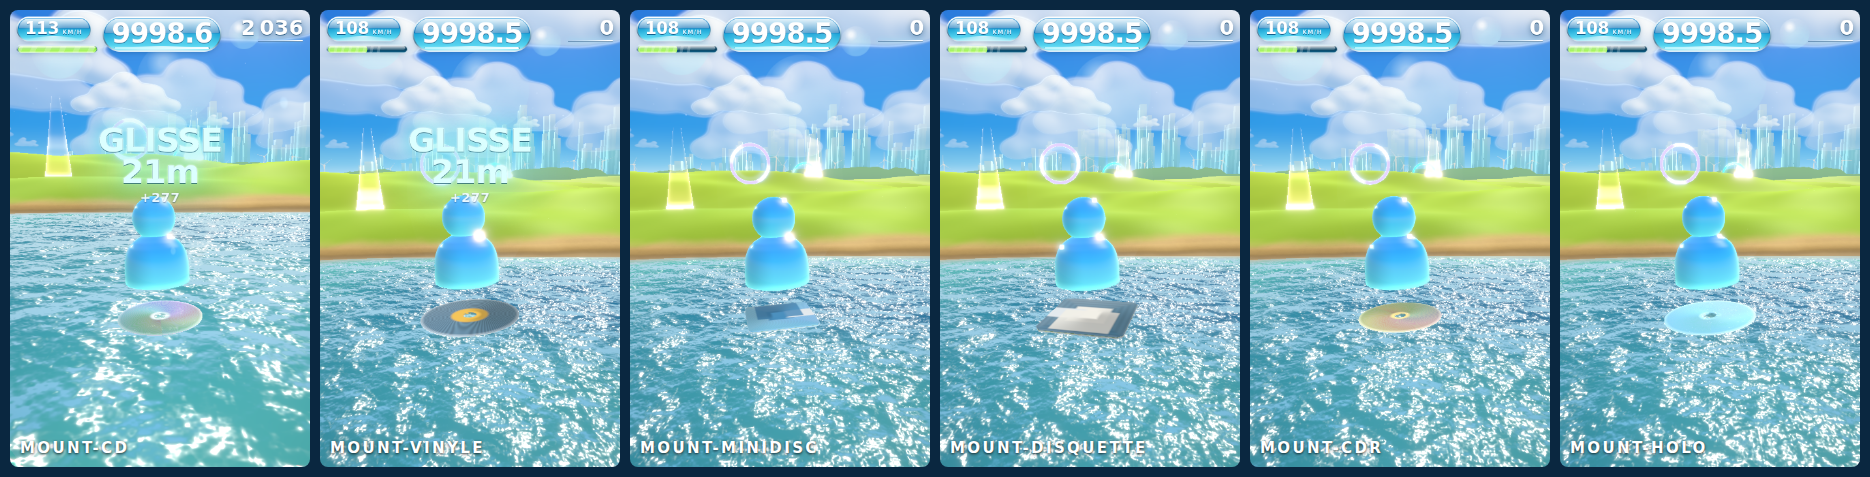
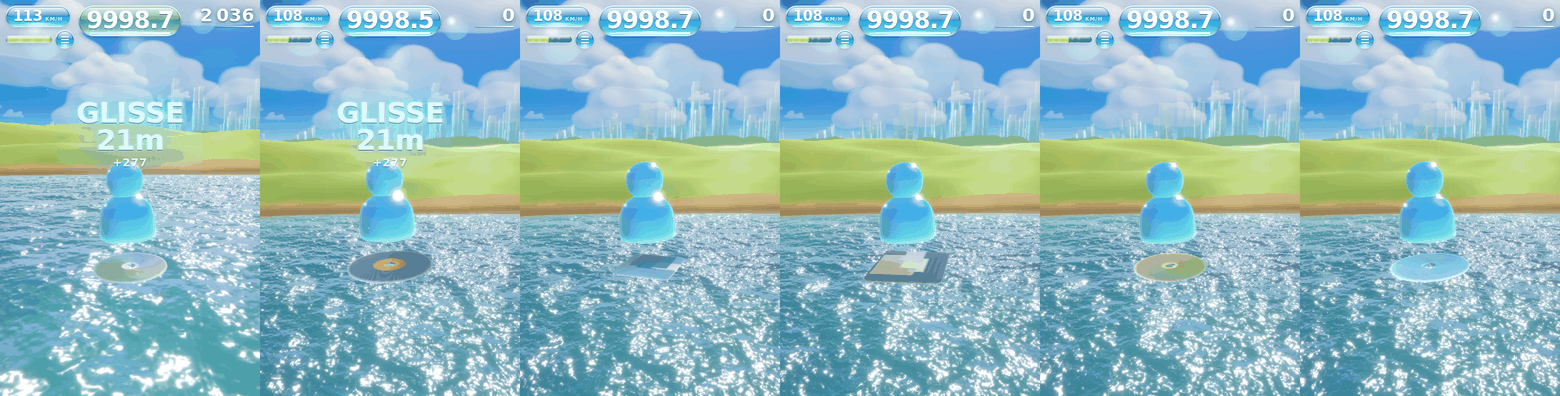
L aura ne mange plus la monture, le flou ne dessine plus d ovale, et OR arrive
Trois defauts signales par le joueur, dont deux etaient le meme genre de
faute : un terme qui couvre l ecran sans qu on ait regarde ou il s arrete.

L OVALE. L exemption de flou autour du surfeur valait smoothstep(0,06 ; 0,33)
sur une distance calculee en UV. Sur le papier c est doux ; a l ecran ca donne
un disque net entoure d une zone floue, et l oeil lit une isoligne bien avant
de lire un flou — ovale et non rond parce qu un cercle en UV est une ellipse
sur un cadre en portrait. La rampe couvre maintenant presque tout le cadre.
Le meme A/B a montre un second degat : a 3 % du cadre, la borne laissait le sol
proche partir en nappe lisse des cent kilometres/heure, avec six echantillons
pour couvrir vingt pixels. Elle tombe a 1,3 %, et la dose avec elle.

LES MONTURES QUI DISPARAISSENT. Ce n etait pas un probleme de monture : au
boost, l aura les effacait. Trois causes empilees. Son origine est posee quinze
centimetres sous le disque mais la coupe du pied de flamme ne mordait que sur
les treize premiers ; le profil de l enveloppe avait un plancher de 42 %, donc
meme a sa base elle faisait le rayon du disque et le bordait de tous les cotes
en additif et en blanc ; et le panache etant couche de quarante degres, une
bonne moitie de ses langues passe DEVANT le disque. Les deux premieres se
corrigent par la forme — la coupe couvre tout le plan du disque, le plancher
laisse place a une rampe en puissance 1,6 qui fait de la base une tige. La
[…]

diff --git a/src/fx/Aura.ts b/src/fx/Aura.ts
@@ -88,9 +88,9 @@ function buildGeometry(): BufferGeometry {
     return pos.length / 3 - 1;
   };
 
-  // --- L'enveloppe. Profil en GOUTTE INVERSEE : large juste au-dessus du
-  //     disque, resserree a la taille, puis effilee vers le haut. Un simple
-  //     cone donnerait un chapeau, une sphere donnerait une bulle.
+  // --- L'enveloppe. Profil en GOUTTE INVERSEE : etroite au ras du disque,
+  //     large a la taille, puis effilee vers le haut. Un simple cone donnerait
+  //     un chapeau, une sphere donnerait une bulle.
   const HEIGHT = 3.0;
   const rows: number[][] = [];
   for (let i = 0; i < RINGS; i++) {
@@ -104,7 +104,18 @@ function buildGeometry(): BufferGeometry {
     // propre aura, et il n'en depassait qu'un lisere qu'on prenait pour du
     // bloom. Une aura doit envelopper LARGEMENT ce qu'elle entoure, sinon elle
     // n'existe que pour le tampon de profondeur.
-    const r = 1.42 * Math.pow(Math.max(0, 1 - v), 0.85) * (0.42 + 0.58 * Math.sin(Math.min(1, v / 0.22) * Math.PI * 0.5));
+    // LE PLANCHER A DISPARU, ET C'EST LUI LE COUPABLE.
+    //
+    // Le profil valait « 0,42 + 0,58 x rampe » : meme a v = 0, l'enveloppe
+    // faisait deja 42 % de sa largeur maximale, c'est-a-dire tout juste le
+    // rayon du disque. Elle passait donc DEVANT lui de tous les cotes a la
+    // fois, en additif et en blanc. Sans plancher, et avec une rampe en
+    // puissance 1,6, la base devient une TIGE — un dixieme du rayon au ras du
+    // disque, moitie moins que lui a son plan — et le ventre remonte a la
+    // taille du buddy, la ou une flamme de dessin anime a toujours eu son
+    // ventre. Le coefficient de tete compense pour que la largeur maximale ne
+    // bouge pas.
+    const r = 2.30 * Math.pow(Math.max(0, 1 - v), 0.85) * Math.pow(Math.sin(Math.min(1, v / 0.55) * Math.PI * 0.5), 1.6);
     const row: number[] = [];
     for (let j = 0; j < SEG; j++) {
       const a = (j / SEG) * Math.PI * 2;
@@ -297,7 +308,10 @@ ${GLSL_SAFE}
           // blanc mangeait toute la moitie basse et une aura verte ressortait
           // blanche — c'est-a-dire la couleur du personnage qu'on avait
           // justement choisi de rendre visible.
-          float heat = pow(max(1.0 - vV, 0.0), 5.0);
+          // Le blanc suit la coupe : cale sur vV = 0 il tombait dans la partie
+          // qu'on vient d'effacer, et il ne restait qu'une aura uniformement
+          // coloree. Il demarre donc la ou la flamme demarre.
+          float heat = pow(clamp(1.0 - (vV - 0.34) / 0.66, 0.0, 1.0), 3.4);
           // 0,26 et non 0,40 : a 0,40 l'aura entiere tirait au blanc et la
           // livree du personnage — la seule chose qu'on voulait montrer — n'y
           // etait plus lisible.
@@ -306,10 +320,24 @@ ${GLSL_SAFE}
           float a = up * (0.30 + vFlick * 0.70) * (0.30 + vLick * 0.85);
           a *= vPart > 0.5 ? 1.35 : 0.62;
           a *= uPower;
-          // Le tout premier centimetre s'efface : sans ca la base de l'aura
-          // recouvrait la monture, c'est-a-dire precisement l'objet qu'on
-          // vient de rendre visible.
-          a *= smoothstep(0.0, 0.13, vV);
+          // --- LA FLAMME NE COMMENCE QU'AU-DESSUS DE LA MONTURE, ET C'EST UNE
+          //     CORRECTION DE BUG.
+          //
+          //     A [0 ; 0,13] la coupe ne mordait QUE sur les treize premiers
+          //     centimetres, alors que l'origine de l'aura est posee quinze
+          //     centimetres SOUS le disque : le plan du disque tombait a
+          //     vV = 0,17, c'est-a-dire juste apres la coupe, et pile la ou
+          //     l'enveloppe est la plus large et le coeur le plus blanc. Au
+          //     boost, la monture disparaissait purement et simplement — le
+          //     joueur l'a signale comme un bug, et c'en etait un : additif,
+          //     x4,3, blanc, exactement sur l'objet qu'on venait de rendre
+          //     lisible.
+          //
+          //     La coupe couvre donc maintenant tout le plan du disque et un
+          //     bon tiers au-dessus. La flamme nait a la TAILLE du buddy, ce
+          //     qui est aussi ce que fait n'importe quelle aura de dessin
+          //     anime : elle enveloppe le corps, pas ses pieds.
+          a *= smoothstep(0.14, 0.42, vV);
 
           // Le liseré. L'enveloppe est vue de l'interieur ET de l'exterieur
           // (DoubleSide) : sans ce renforcement du bord, les deux faces
@@ -325,7 +353,11 @@ ${GLSL_SAFE}
           // couleur ne pouvait la rattraper. C'est la faute classique de
           // l'additif, et elle se voit d'autant moins qu'elle ne casse rien —
           // elle rend juste tout terne.
-          gl_FragColor = vec4(c * a * 4.3, 1.0);
+          // 3,4 et non 4,3 : a 4,3 la somme saturait si largement que l'aura
+          // rendait BLANC partout sauf sur son bord — la couleur de la livree,
+          // qui est tout ce qu'elle a a dire, n'arrivait jamais a l'ecran, et
+          // la plaine autour disparaissait avec elle.
+          gl_FragColor = vec4(c * a * 3.4, 1.0);
           #include <tonemapping_fragment>
           #include <colorspace_fragment>
         }

diff --git a/src/fx/SurfEffect.ts b/src/fx/SurfEffect.ts
@@ -164,12 +164,32 @@ void mainImage(const in vec4 inputColor, const in vec2 uv, const in float depth,
         //     aussi ce que fait n'importe quel jeu de course avec sa voiture,
         //     et pour une deuxieme raison qui vaut a elle seule : le point que
         //     l'oeil suit doit rester le point NET de l'image.
-        vel *= smoothstep(0.06, 0.33, distance(uv, uFocus));
-        // Borne : une reception secoue la camera assez fort pour etirer tout
-        // le cadre en une image, et une image illisible au moment de reprendre
-        // le controle est pire que pas de flou du tout.
+        //
+        //     LA RAMPE COUVRE TOUT L'ECRAN, ET C'EST UNE CORRECTION DE BUG.
+        //
+        //     A [0,06 ; 0,33] elle etait pourtant douce — mais elle donnait un
+        //     disque net entoure d'une zone floue, et l'oeil lit une ISOLIGNE
+        //     bien avant de lire un flou. Le joueur l'a decrit exactement comme
+        //     ce que c'etait : un ovale semi-transparent autour du personnage.
+        //     (Ovale et non rond : la distance est calculee en UV, ou x et y
+        //     valent tous deux 0 a 1 ; sur un cadre en portrait, un cercle en
+        //     UV est une ellipse a l'ecran.)
+        //
+        //     Etalee sur presque tout le cadre, la meme rampe n'a plus de bord
+        //     a montrer, et elle raconte au passage quelque chose de juste :
+        //     dans une image en mouvement, la peripherie file toujours plus
+        //     vite que le centre.
+        vel *= smoothstep(0.03, 0.70, distance(uv, uFocus));
+        // BORNE A 1,3 % DU CADRE, ET PAS 3 %.
+        //
+        // A 3 % le sol proche — qui est aussi le seul endroit ou l'herbe a du
+        // detail — partait en nappe lisse des cent kilometres/heure, avec six
+        // echantillons pour couvrir vingt pixels. On y perdait tout ce que la
+        // passe optique venait d'ajouter, en echange d'une sensation de
+        // vitesse que le panache et les stries rendent deja. A 1,3 % le flou
+        // se lit encore en mouvement et ne coute plus l'image fixe.
         float m = length(vel);
-        if (m > 0.030) vel *= 0.030 / m;
+        if (m > 0.013) vel *= 0.013 / m;
         if (m > 0.0004) {
           // Echantillonnage CENTRE sur le pixel : de -0,5 a +0,5 du vecteur.
           // Tire d'un seul cote, le flou DEPLACE l'image au lieu de l'etaler,

diff --git a/src/style.css b/src/style.css
@@ -1361,7 +1361,16 @@ body.picking #hud { opacity: 0; transition: opacity 0.2s ease-out; }
    vignette et le nom. Les compromis « + » et « − » descendent dans le bloc de
    lecture, ou ils ont la place d'etre lus — et ou ils ne concernent que
    l'option selectionnee, la seule qui compte. */
-.pickrow.six .cards { grid-template-columns: repeat(6, 1fr); gap: 4px; }
+/* Le nombre de colonnes vient du NOMBRE D'OPTIONS, pose en ligne par la vue.
+   Fige a six, la septieme livree passait a la ligne toute seule et la rangee
+   BUDDY prenait le double de hauteur pour une carte. */
+.pickrow.six .cards { grid-template-columns: repeat(var(--n, 6), 1fr); gap: 4px; }
+/* A sept colonnes il reste quarante-quatre pixels par carte sur un telephone :
+   AMETHYSTE n'y tient plus a 0,56em. */
+.pickrow.n7 .cards { gap: 3px; }
+.pickrow.n7 .card { padding: 0.4em 0.05em 0.36em; }
+.pickrow.n7 .card .nm { font-size: 0.48em; letter-spacing: 0; }
+.pickrow.n7 .emb { width: clamp(22px, 6.6vw, 30px); height: clamp(22px, 6.6vw, 30px); }
 .pickrow.six .card { padding: 0.4em 0.1em 0.36em; gap: 0.22em; border-radius: 10px; }
 .pickrow.six .card .nm { font-size: 0.56em; letter-spacing: 0.02em; }
 .pickrow.six .emb { width: clamp(26px, 8vw, 34px); height: clamp(26px, 8vw, 34px); }
@@ -1404,6 +1413,15 @@ body.picking #hud { opacity: 0; transition: opacity 0.2s ease-out; }
   background: linear-gradient(165deg, #f0c4ff 0%, #b24bff 42%, #4a12a8 100%);
   box-shadow: inset 0 -2px 3px rgba(255,255,255,0.5), 0 0 9px rgba(170,60,255,0.75);
 }
+/* L'OR. Le seul metal de la galerie : il ne se lit pas a la teinte — BRAISE
+   est deja chaud — mais au REFLET, un liseré clair pris entre deux cuivres.
+   Le halo est le plus fort de la serie, parce que c'est la seule chose qui
+   annonce, avant de cliquer, que cette carte n'est pas comme les autres. */
+.av.or b, .av.or u {
+  background: linear-gradient(165deg, #fff6d0 0%, #ffc23a 34%, #e08a06 62%, #7a3f03 100%);
+  box-shadow: inset 0 -2px 3px rgba(255,255,255,0.85), 0 0 11px rgba(255,190,60,0.95);
+}
+
 /* Le prisme ne tient pas sa couleur de son verre mais de ses ARETES : corps
    presque blanc, halo magenta. */
 .av.prisme b, .av.prisme u {

diff --git a/src/player/Disc.ts b/src/player/Disc.ts
@@ -155,9 +155,14 @@ const MOUNT_LOOK: Record<string, MountLook> = {
   },
   // Le disque de pure lumiere : pas de matiere, juste de l'emission. Le seul
   // qui soit une SOURCE, et donc le seul visible de nuit a lui tout seul.
+  // Le corps est descendu de [0,45 0,85 1,0] a [0,24 0,66 0,92], et l'emission
+  // a suivi : presque blanc, HOLO ne se voyait plus des que l'aura s'allumait —
+  // du blanc pale sur du blanc sature. Il reste la monture la plus claire du
+  // jeu, mais il a maintenant une TEINTE, et une teinte survit a un fond
+  // brulant la ou une valeur ne survit pas.
   holo: {
-    body: [0.45, 0.85, 1.0], label: [0, 0, 0], emit: [0.16, 0.42, 0.62],
-    iri: 0.55, groove: 1400, grain: 0, labelR: 0, shutter: 0, opaque: 0,
+    body: [0.24, 0.66, 0.92], label: [0, 0, 0], emit: [0.10, 0.36, 0.58],
+    iri: 0.72, groove: 1400, grain: 0, labelR: 0, shutter: 0, opaque: 0,
     scale: 1.08, square: false,
   },
 };
@@ -329,6 +334,22 @@ ${GLSL_SAFE}
     });
 
     this.mesh = new Mesh(this.round, this.mat);
+    // --- LA MONTURE PASSE APRES L'AURA, ET C'EST UNE CORRECTION DE BUG.
+    //
+    //     L'aura est additive, blanche a coeur, et son panache est couche de
+    //     quarante degres vers l'arriere : vu d'une camera de poursuite, une
+    //     bonne moitie de ses langues passe DEVANT le disque. Rendue apres lui
+    //     (renderOrder 40 contre 0), elle s'ajoutait par-dessus jusqu'a le
+    //     saturer — au boost, la monture disparaissait, et le joueur l'a
+    //     signale comme tel. La geometrie de l'aura a ete resserree pour ne
+    //     plus border le disque, mais ca ne suffit pas : une langue qui passe
+    //     devant passera toujours devant.
+    //
+    //     Le disque repasse donc en DERNIER. Il ne s'ajoute pas, il recouvre —
+    //     ce qui est la seule lecture juste : une flamme nait autour d'un
+    //     objet solide, elle ne le traverse pas. Le buddy, lui, garde l'ordre
+    //     d'origine : que l'aura le baigne est exactement l'effet voulu.
+    this.mesh.renderOrder = 60;
     this.group.add(this.mesh);
 
     // Halo de contact : la reference n'a AUCUNE ombre portee. Le contact au

diff --git a/src/core/Loadout.ts b/src/core/Loadout.ts
@@ -77,6 +77,27 @@ export const RIDERS: Perk[] = [
     blurb: 'précis partout, à sec de boost',
     cruise: 0.94, grip: 1.14, lift: 1.14, plane: 1.02, boost: 0.86,
   },
+  // --- OR, ET C'EST LA SEULE ENTREE QUI NE PAIE RIEN.
+  //
+  //     Elle enfreint la regle posee en tete de fichier, sciemment et sur
+  //     demande : « un golden skin ultra rapide et puissant ». Autant l'ecrire
+  //     ici plutot que de la deguiser en compromis qu'elle n'est pas — une
+  //     option secretement dominante est bien pire qu'une option ouvertement
+  //     dominante, parce qu'on ne peut plus la reequilibrer sans mentir deux
+  //     fois.
+  //
+  //     Ce qu'elle coute, elle le coute AILLEURS que dans les chiffres : la
+  //     course est un contre-la-montre, et une croisiere a +26 % laisse un
+  //     quart de seconde de moins pour lire le relief entre deux portes. Le
+  //     joueur qui la prend va plus vite ET rate plus de portes. C'est le seul
+  //     equilibrage qu'on lui laisse, et il est reel : le ricochet paie la
+  //     precision, pas la vitesse.
+  {
+    id: 'or',
+    name: 'OR',
+    blurb: 'hors barème : plus vite, plus haut, plus fort',
+    cruise: 1.26, grip: 1.16, lift: 1.20, plane: 1.18, boost: 1.35,
+  },
 ];
 
 export const MOUNTS: Perk[] = [

diff --git a/src/player/Surfer.ts b/src/player/Surfer.ts
@@ -71,6 +71,13 @@ const RIDER_TINT: Record<string, RiderLook> = {
   // Le prisme : blanc en haut, cyan en bas, liseré magenta. Il ne tient pas
   // sa couleur de son verre mais de ses ARETES, comme un vrai prisme.
   prisme: { tint: [0xdfe8ff, 0x7ff0ff, 0xff6ae0, 0xfff0b0], lamp: 0xd0a8ff, power: 0.52 },
+  // L'OR. Une puissance de lampe a 1, comme NEON : c'est le seul indice visuel
+  // qu'on donne de sa domination, et il faut qu'il se voie de loin. Le haut est
+  // un AMBRE et non un brun : a 0x8a4a05 le verre lisait cuivre sale sur
+  // l'herbe verte, ce qui est la seule chose qu'un personnage dore ne peut pas
+  // se permettre. Il ne monte pas non plus au jaune pur, qui passerait blanc
+  // dans le bloom — et un dore qui ressort blanc n'est plus dore.
+  or: { tint: [0xd4870a, 0xffd85e, 0xffae12, 0xfff0b0], lamp: 0xffc23a, power: 1.0 },
 };
 
 /** La livree d'un personnage, pour l'interface comme pour la scene. */

diff --git a/src/hud/Select.ts b/src/hud/Select.ts
@@ -227,7 +227,11 @@ export class Select {
           </button>`,
       )
       .join('');
-    return `<div class="pickrow six"><h3>${title}</h3><div class="cards">${cards}</div></div>`;
+    // Le nombre de colonnes est une PROPRIETE DE LA LISTE, pas une constante de
+    // feuille de style : le jour ou une septieme livree arrive, la grille doit
+    // suivre sans qu'on y pense — et ce jour est arrive.
+    const n = list.length;
+    return `<div class="pickrow six n${n}" style="--n:${n}"><h3>${title}</h3><div class="cards">${cards}</div></div>`;
   }
 
   /** Les etiquettes derivees, telles qu'elles s'affichent dans le bloc. */

diff --git a/src/fx/PostFX.ts b/src/fx/PostFX.ts
@@ -80,7 +80,7 @@ export class PostFX {
    * flou en permanence pose l'image ; beaucoup au boost fait l'evenement.
    */
   setMotion(speed: number, boost: number): void {
-    this.motion = 0.40 + speed * 0.30 + boost * 0.65;
+    this.motion = 0.26 + speed * 0.26 + boost * 0.55;
   }
 
   resize(w: number, h: number): void {

diff --git a/docs/03-GAME-FEEL.md b/docs/03-GAME-FEEL.md
@@ -1040,7 +1040,41 @@ force de la lampe** du personnage. Ce n'est plus lui qui brille, c'est la plaine
 qui change de couleur autour de lui — et ça, on ne peut pas le rater sans
 regarder le compteur.
 
-### Six buddies, six montures
+#### « Les montures disparaissent »
+
+Le défaut était réel, et il coûtait la moitié de l'écran d'équipement : au
+boost, **le disque n'existait plus**. Trois causes empilées, toutes dans l'aura :
+
+1. son origine est posée quinze centimètres **sous** le disque, mais la coupe du
+   pied de flamme ne mordait que sur les treize premiers ; le plan du disque
+   tombait donc juste après la coupe ;
+2. le profil de l'enveloppe avait un **plancher** de 42 % — même à sa base, elle
+   faisait tout juste le rayon du disque, qu'elle bordait donc de tous les côtés
+   à la fois, en additif et en blanc ;
+3. le panache est couché de quarante degrés vers l'arrière : vu d'une caméra de
+   poursuite, une bonne moitié de ses langues passe **devant** le disque, et
+   l'aura était rendue après lui.
+
+Les deux premières se corrigent par la forme : la coupe couvre maintenant tout
+le plan du disque et un tiers au-dessus, et le plancher a disparu au profit
+d'une rampe en puissance 1,6 — la base devient une **tige**, le ventre remonte à
+la taille du buddy, là où une flamme de dessin animé a toujours eu son ventre.
+
+La troisième ne se corrige pas par la forme : une langue qui passe devant
+passera toujours devant. Le disque repasse donc en **dernier** (`renderOrder`
+60 contre 40). Il ne s'ajoute plus, il recouvre — ce qui est la seule lecture
+juste : une flamme naît autour d'un objet solide, elle ne le traverse pas. Le
+buddy, lui, garde l'ordre d'origine : que l'aura le baigne est l'effet voulu.
+
+Deux réglages ont suivi la mesure. La somme additive est passée de ×4,3 à ×3,4 :
+à 4,3 elle saturait si largement que l'aura rendait blanc partout sauf sur son
+bord, et la **couleur de la livrée** — tout ce qu'elle a à dire — n'arrivait
+jamais à l'écran. Et HOLO, presque blanc, ne survivait à aucune des deux
+versions : son corps est descendu de `[0,45 0,85 1,0]` à `[0,24 0,66 0,92]`. Il
+reste la monture la plus claire du jeu, mais il a maintenant une **teinte**, et
+une teinte survit à un fond brûlant là où une valeur ne survit pas.
+
+### Sept buddies, six montures
 
 L'écran passe de trois à six options par rangée. Les étiquettes « + » et « − »
 quittent les cartes pour rejoindre le bloc de lecture : à six, chaque carte fait
@@ -1056,6 +1090,14 @@ explique**, et il n'explique que ce qui est sélectionné.
 | **BRAISE** | cruise ×1,14 · lift ×1,08 | plane ×0,80 — il déteste l'eau |
 | **AMÉTHYSTE** | plane ×1,30 · boost ×1,12 | lift ×0,88 |
 | **PRISME** | grip ×1,14 · lift ×1,14 | boost ×0,86 |
+| **OR** | boost ×1,35 · cruise ×1,26 · lift ×1,20 · plane ×1,18 · grip ×1,16 | **aucun** |
+
+**OR enfreint la règle, et il l'enfreint ouvertement.** Une option secrètement
+dominante est bien pire qu'une option ouvertement dominante : on ne peut plus la
+rééquilibrer sans mentir deux fois. Ce qu'il coûte n'est pas dans le tableau —
+le ricochet paie la précision, pas la vitesse, et une croisière à +26 % laisse un
+quart de seconde de moins pour lire la porte suivante. Le joueur qui le prend va
+plus vite **et** rate plus de portes.
 
 | Monture | Avantage | Coût |
 |---|---|---|

diff --git a/README.md b/README.md
@@ -29,7 +29,7 @@ Le cœur du projet, ce n'est pas la scène. C'est **la glisse**.
 <p align="center">
   <img src="docs/hero.png" width="300" alt="Collines procedurales, eoliennes et surfeur MSN" />
   <img src="docs/hero-couchant.png" width="300" alt="Coucher de soleil sur un lac, avec le chemin du soleil sur l eau" />
-  <img src="docs/equipement.png" width="300" alt="Ecran d equipement : trois buddies, trois montures, cinq jauges" />
+  <img src="docs/equipement.png" width="300" alt="Ecran d equipement : sept buddies, six montures, cinq jauges" />
 </p>
 
 **Le jour tourne.** Un cycle complet fait trois minutes et ne se remet jamais à
@@ -143,10 +143,10 @@ plaine s'inonde derrière le panneau pendant que tu lis la carte suivante.
 Chaque monde tient **son propre record** : ils ne se font pas concurrence, et y
 revenir ne coûte rien.
 
-## Six buddies, six montures
+## Sept buddies, six montures
 
 <p align="center">
-  <img src="docs/buddies.png" width="880" alt="Les six buddies : bleu, neon, givre, braise, amethyste, prisme" />
+  <img src="docs/buddies.png" width="880" alt="Les sept buddies : bleu, neon, givre, braise, amethyste, prisme, or" />
 </p>
 
 <p align="center">
@@ -157,6 +157,13 @@ Chaque buddy **projette sa lumière au sol** — une flaque de sa couleur qui
 voyage avec lui sur l'herbe, le sable et l'eau. NÉON n'est pas peint en vert, il
 **éclaire** en vert. Sans cette flaque, un personnage lumineux n'est qu'un
 autocollant fluorescent.
+
+**OR est hors barème**, et c'est assumé : les six autres livrées paient chacune
+leur avantage par un défaut, lui ne paie rien — plus vite, plus haut, plus fort
+sur les cinq axes. Ce qu'il coûte est ailleurs que dans les chiffres : le
+ricochet paie la **précision**, et une croisière à +26 % laisse un quart de
+seconde de moins pour lire la porte suivante. On va plus vite, et on en rate
+davantage.
 
 Deux montures sont de vraies **cartouches carrées**, et ce n'est pas un caprice :
 ce qui distingue une monture à quarante pixels n'est ni sa couleur ni sa

diff --git a/docs/02-TECH-ARCHITECTURE.md b/docs/02-TECH-ARCHITECTURE.md
@@ -996,6 +996,30 @@ Quatre détails qui ne se devinent pas :
   course avec sa voiture, et pour une deuxième raison qui vaut à elle seule : le
   point que l'œil suit doit rester le point net de l'image.
 
+### L'ovale, ou ce que coûte une rampe trop courte
+
+La première version de cette exemption valait `smoothstep(0,06 ; 0,33)` autour
+de la position écran du surfeur. Sur le papier c'est doux. À l'écran, ça donnait
+un **disque net entouré d'une zone floue** — et l'œil lit une *isoligne* bien
+avant de lire un flou. Le joueur l'a décrit exactement pour ce que c'était :
+
+> « pk y'a un ovale semi transparent bizarre autour du perso ? »
+
+Ovale et non rond, d'ailleurs, et c'est un indice de la cause : la distance est
+calculée en **UV**, où x et y valent tous deux 0 à 1 ; sur un cadre en portrait,
+un cercle en UV est une ellipse à l'écran. Une transition de flou ne peut pas
+avoir de bord visible : soit elle couvre presque tout le cadre, soit elle n'a
+rien à faire là. La rampe est donc passée à `[0,03 ; 0,70]`, et elle raconte au
+passage quelque chose de juste — dans une image en mouvement, la périphérie file
+toujours plus vite que le centre.
+
+Le même A/B a montré un second dégât, plus insidieux : à 3 % du cadre, la borne
+laissait le sol proche — le seul endroit où l'herbe a du détail — partir en
+nappe lisse dès cent kilomètres/heure, avec six échantillons pour couvrir vingt
+pixels. On y perdait tout ce que la passe optique venait d'ajouter, en échange
+d'une sensation de vitesse que le panache et les stries rendent déjà. La borne
+est tombée à **1,3 %**, et le gain de dose avec elle.
+
 Le coût n'a **pas** pu être mesuré ici : sur le rastériseur logiciel des bancs,
 l'écart entre deux mesures du même code est de l'ordre de trente pour cent, et
 le flou passe dessous. Ce qui est mesurable, c'est qu'il n'introduit ni image

diff --git a/docs/04-ROADMAP.md b/docs/04-ROADMAP.md
@@ -19,7 +19,7 @@
 | # | Ajout | Contenu | Critère de sortie | État |
 |---|---|---|---|---|
 | 7 | **Cinq mondes** | Un jeu de paramètres par monde appliqué à la même scène : relief, eau, grève, houle, palette, ciel, densités, **règles** | `check:worlds` : chacun jouable à l'autopilote, mesuré | ✅ |
-| 8 | **Équipement** | Six buddies × six montures, coûts dérivés des multiplicateurs | `check:pick` : le choix s'applique à la physique **et** à la livrée, et survit au rechargement | ✅ |
+| 8 | **Équipement** | Sept buddies × six montures, coûts dérivés des multiplicateurs (OR excepté) | `check:pick` : le choix s'applique à la physique **et** à la livrée, et survit au rechargement | ✅ |
 | 9 | **OCTOBRE** | Monde couvert : pluie ancrée au monde, feuilles qui tombent et tapis peint dans le sol, sol mouillé et flaques, et le **vent comme mécanique** | `check:worlds` : le vent est mesuré et corrigeable (< 25 % du temps collé au bord du couloir) | ✅ |
 
 ## Retiré du périmètre
